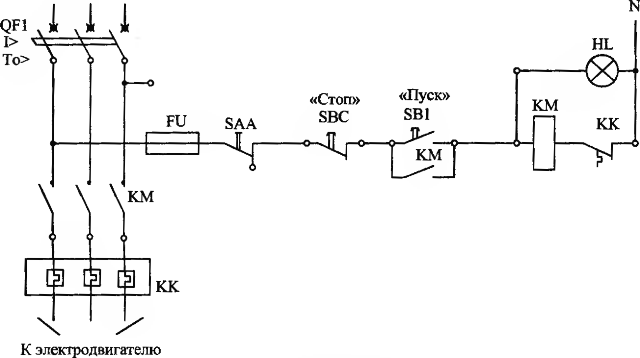
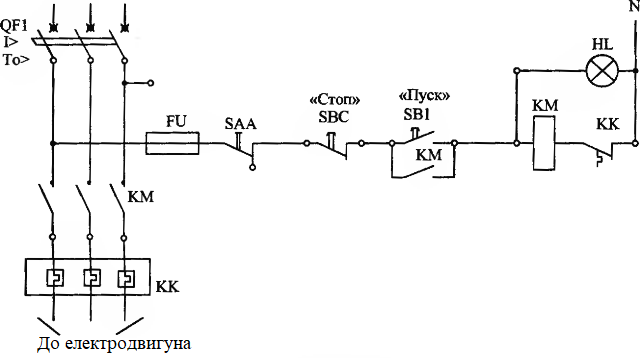
eskd

Changed region(s): [[0.0312, 0.9218, 0.3125, 1.0]]

diff --git a/prjdocsdstu/eskd/teor.md b/prjdocsdstu/eskd/teor.md
@@ -346,7 +346,7 @@
 
 Зверніть увагу: крапку можна ставити у будь-якому випадку. Якщо потрібно підкреслити, що цифри ставляться до контакту, то крапку замінюють двокрапкою. Наприклад, `КМ4:2` та `КМ4:5` відповідно позначають: другий та п'ятий контакти елемента `КМ4`. 
 
-Таблиця 4.1. Літерні коди видів елементів
+Таблиця 1. Літерні коди видів елементів
 
 | Однолітерний код | Групи видів елементів та пристроїв                           | Приклади (Дволітерний код)                                   |
 | ---------------- | ------------------------------------------------------------ | ------------------------------------------------------------ |
@@ -400,7 +400,158 @@
 
 Кола позначають у послідовності від введення джерела живлення до споживача, а ділянки, що розгалужуються, — зверху вниз у напрямку зліва направо. Зазвичай пропускають кілька номерів, залишаючи їх у резерві. Допускається до позначення кола включати позначення, що характеризують його функціональне призначення, наприклад, перед номером писати букву. На схемі позначення (марки) проставляють біля кінців або всередині ділянки кола: а) при вертикальному розташуванні кіл — зліва (а не праворуч!) від зображення кола; б) при горизонтальному розташуванні над зображенням кола. Однак у технічно обґрунтованих випадках допускається проставляти позначення під зображенням кола.
 
-У схемах постійного струму вхідні та вихідні ділянки позначають із зазначенням полярності: плюс `L+`, мінус `L-`, як або просто `+` та `-`, середній провідник позначають буквою `М`. Ділянки позитивної полярності нумерують непарними, а негативної полярності – парними числами. Якщо в процесі роботи схеми ділянка змінює полярність, то ділянки, що не мають явно вираженої полярності (провідник, що з'єднує дві послідовно з'єднані котушки, резистори тощо), позначаються парними чи непарними числами. У схемах однофазного змінного струму (фаза-нейтраль, фаза-фаза) ділянки кіл позначають аналогічно колам постійного струму з додаванням індексу фази `А`, `В`, `С` або (IV). Індекс фази чи нейтралі пишуть перед цифровою частиною. Парні (непарні) числа можуть надаватися будь-яким ділянкам кола будь-якої фази або нейтралі (нулю). У схемах трифазного змінного струму ділянки кіл позначають без поділу на парні та непарні з додаванням перед цифровою частиною індексу фази.
+При розробці принципових електричних схем в автоматизованих системах керування використовуються два способи позначення електричних кіл або маркування кіл:
+
+- Потенційний;
+- адресний чи зустрічний.
+
+**Потенційний спосіб маркування** кіл виходить із положення, що всі кола, що мають однаковий потенціал, тобто кола, що сходяться в одному вузлі електричної схеми або проходять через роз'ємні контактні з'єднання, повинні мати однакові позначення/маркування. При потенційному маркуванні ділянки кіл позначаються незалежно від позначення чи нумерації клем, затискачів, контактів тощо, до яких приєднуються кінці маркованих ділянок кіл. Послідовність позначення здійснюється від введення джерела живлення до споживача, а ділянки, що розгалужуються, — зверху вниз у напрямку зліва направо. Для позначення використовують великі літери латинського алфавіту та арабські цифри, виконані одним розміром шрифту. Не рекомендується застосовувати літери `І` та `О`. Для зручності користування схемою допускається при позначенні кіл залишати резервні номери або пропускати номери.
+
+Для силових кіл змінного струму прийняті позначення `L1, L2, L3` та послідовні числа. Наприклад, ділянки кола першої фази `L1` позначають `L11, L12, L13, ...`, другої фази `L2` - `L21, L22, L23, ...,` третьої фази `L3`-`L31, L32, L33` і т.д. Допускається, якщо це не викличе помилкового підключення, позначати 1,2 і 3 фази відповідно літерами `А`, `В`, `С`. Нейтральний провід позначають літерою `N`. Силові кола постійного струму позначають: ділянки кіл позитивної полярності – непарними числами, негативної полярності – парними числами. Вхідні та вихідні ділянки кола позначають із зазначенням полярності плюс `L+` та мінус `L-`. Дозволяється застосовувати лише знаки `+` та `-`. Середній провід позначають літерою `М`. 
+
+Дозволяється позначати кола послідовними числами. Кола управління, захисту, сигналізації, автоматики, вимірювання позначають послідовними числами в межах виробу або установки. Допускається позначення кола включати позначення, що характеризує функціональне призначення кола. І тут послідовність чисел допускається встановлювати не більше функціонального кола. Допускається в позначення кіл управління, захисту, сигналізації, автоматики, вимірювання включати позначення фаз, наприклад, `А 401`, `С 401`, а також 1-фазних (фаза-нуль) і 2-фазних (фаза-фаза) несилових колах змінного струму ділянки кіл позначати парними та непарними числами
+
+Маркування кіл в АСКТП слід проводити за функціональною ознакою (наприклад):
+
+- кола керування, регулювання - група чисел від 1 до 399;
+- кола сигналізації - 400-799;
+- кола живлення - 800-999.
+
+Позначення проставляють близько кінців чи середині ділянки електричного кола: при вертикальному розташуванні кіл — ліворуч від зображення, при горизонтальному — над зображенням кола. У технічно обґрунтованих випадках дозволяється проставляти позначення під зображенням кола.
+Адресний або зустрічний спосіб маркування враховує ту обставину, що електрична схема має позначення затискачів, виводів елементів, засобів автоматизації. Це дозволяє на кожному кінці ділянки кола вказувати марку елемента або засоби автоматизації, що приєднується до протилежного кінця цієї ділянки.
+
+Деякі підприємства-виробники щитової продукції використовують адресний/зустрічний метод маркування або табличний метод, при якому за певною формою записуються або адреса початку та кінця ділянок кола, або одночасно марка кола та адреса початку та кінця ділянок кола.
+
+## 5. Електричні кола в автоматизованих системах керування
+
+### Види електричних кіл
+
+Елементарні або окремі електричні кола за призначенням можна поділити на такі види:
+
+- Вимірювання параметра:  електричне коло передачі електричного сигналу, пропорційного величині параметра вимірюваного технологічного процесу.
+- Контролю параметра: електричне коло передачі дискретного електричного сигналу про досягнення вимірюваним параметром певного значення або зміну положення елемента, який контролює стан апарата або пристрою.
+- Сигналізації: електричне коло світлового та/або звукового сигналу, отриманого з кіл контролю параметра, кіл захисту, керування, регулювання.
+- Захисту:  електричне коло із встановленим у ньому пристроєм (апаратом) захисту, який служить для безумовного автоматичного відключення або включення даного електричного кола у разі виникнення аварійної ситуації в технологічному або електричному устаткуванні
+- Блокування: електричне коло із встановленими в ньому елементами, які запобігають або обмежують виконання операцій в одному з кіл керування, регулювання, сигналізації з метою запобігання виникненню цього кола неприпустимих станів при певних станах або положеннях елементів в іншому електричному колу.
+- Керування: електричне коло, яким передаються сигнали включення/відключення електроустаткування, електроприймача.
+- Регулювання:  форма електричного кола керування, призначена для автоматичного підтримування заданої величини параметра шляхом виявлення та усунення відхилень величини параметра або зміни параметра за заданою програмою.
+- Живлення: електричне коло, призначений для забезпечення електроенергією електрообладнання, електроприймачів та технічних засобів АСКТП . 
+
+У конкретних важливих електричних схемах деякі електричні кола може бути віднесено до різних видів кіл.
+
+### Кола вимірювання та контролю
+
+Кола вимірювання кореспондуються з одного боку з вихідними елементами/клемами первинного приладу або засобу вимірювання та з клемами різноманітних перетворень, обмежувачів напруги, гальванічної розв'язки, а також вторинних приладів, засобів обчислювальної техніки — з іншого боку. Конкретні схеми з'єднань різних засобів автоматизації та обчислювальної техніки, підключення кіл виміру до їх вхідних/вихідних елементів повністю залежать від вибраних засобів автоматизації. За колами виміру передаються такі види сигналів:
+
+- 1-10 В з можливими рівнями сигналів в межах 0-60 мВ до 0-20 В;
+- 0 (4) - 20 мА;
+- датчик температури (термометр опору) за 2-, 3-, 4-провідною схемою;
+- Термопари різних типів;
+- Лінійні мВ - сигнали в діапазоні від - 20 мВ до - 2400 мВ;
+- Опір (двопровідна схема), потенціометр (трьохпровідна схема) в діапазоні до 8 кОм;
+- Постійний струм або змінний в діапазоні 0,2-5 А;
+
+Крім перелічених сигналів можуть передаватися сигнали:
+
+- з HART-протоколом;
+
+- частотні в діапазоні від 0,1 Гц до 120 кГц;
+- З SSI-інтерфейсом.
+
+Елементарні кола виміру показані в таблиці 2.
+
+Таблиця 2. Приклад кіл вимірювання
+
+| Коло вимірювання                                            | Схема                                                        |
+| ----------------------------------------------------------- | ------------------------------------------------------------ |
+| Двопровідне коло вимірювання струму (напруги)               | ![image-20241207153556109](media/image-20241207153556109.png) |
+| Трипровідне коло вимірювання струму (напруги)               | ![image-20241207153602168](media/image-20241207153602168.png) |
+| Індуктивний датчик постійного струму                        | ![image-20241207153611899](media/image-20241207153611899.png) |
+| Індуктивний датчик змінного струму                          | ![image-20241207153622688](media/image-20241207153622688.png) |
+| Термопара                                                   | ![image-20241207153628467](media/image-20241207153628467.png) |
+| «Сухий контакт»                                             | ![image-20241207153634442](media/image-20241207153634442.png) |
+| "Сухий контакт" з контролем справності лінії (LFD)          | ![image-20241207153639779](media/image-20241207153639779.png) |
+| Термометр опору, потенціометр, резистор Двопровідне коло    | ![image-20241207153644792](media/image-20241207153644792.png) |
+| Термометр опору, потенціометр, резистор Трипровідне коло    | ![image-20241207153650003](media/image-20241207153650003.png) |
+| Термометр опору, потенціометр, резистор Чотирипровідне коло | ![image-20241207153655537](media/image-20241207153655537.png) |
+
+Як бачимо більшість кіл є двопровідними. Лише підключення термометрів опору можливе за 2-, 3-, 4-провідною схемою, а в колах вимірювання з використанням SSI-інтерфейсу задіяні три кручені пари проводів. 
+
+Коло контролю характеризується тим, що в певний момент зміни величини параметра або положення механічного предмета елемент контролю замикає електричне коло, в якому лавиноподібно наростає струм, достатній для спрацьовування приймального елемента, або розмикає електричне коло, в якому струм знижується до величини, достатньої для відключення приймального елемента. Як елемент контролю може бути застосований «сухий контакт» засобу автоматизації або командоапарата, транзистор, керований діод, оптрон, індуктивний або ємнісний датчик і т.п. 
+
+### Коло сигналізації 
+
+Коло сигналізації в деяких випадках важко відокремити від інших кіл - керування, захисту, регулювання або контролю. Водночас із кіл сигналізації складаються електричні схеми сигналізації. В системах АСКТП розрізняють схеми сигналізації за призначенням, видом сигналів, за родом електричного живлення схеми.
+
+За призначенням схеми сигналізації поділяються на схеми технологічної та командно-переговорної сигналізації. **Технологічна сигналізація** служить подання оперативному персоналу сигналів:
+
+- про стан механізмів технологічного, електротехнічного, вентиляційного, каналізаційного та іншого обладнання (насос увімкнений або вимкнений, вентилятор у роботі, напруга в ланцюзі живлення є, шибер піднято або опущено, засувка відкрита або закрита тощо);
+- про стан параметрів технологічного процесу (відхилення параметра від встановленої величини, наявність чи відсутність у конкретному місці тих чи інших предметів чи речовин у певному обсязі та концентрації тощо).
+
+Цей вид технологічної сигналізації може бути двох підвидів: попереджувальної та аварійної. **Попереджувальна технологічна сигналізація** - сигналізація про ненормальні, але ще допустимі значення контрольованих або регульованих величин, про порушення нормального режиму роботи окремих агрегатів або всієї установки в цілому. Поява попереджувальних сигналів вказує оперативному персоналу на необхідність вжиття певних заходів для усунення несправностей. **Аварійна технологічна сигналізація** — сигналізація про неприпустимі значення контрольованих величин, про аварійні стани на окремих ділянках технологічного процесу або про аварійні відхилення контрольованих об'єктів. Поява аварійних сигналів часто супроводжується дією пристроїв автоматичного захисту чи блокування. Аварійна сигналізація, потребує, зазвичай, негайного втручання оперативного персоналу, здійснюється, на відміну попереджувальної сигналізації, миготливим світлом і звуком різкого тону. Поділ сигналізації на поепереджувальну та аварійну забезпечує різну реакцію оператора на отриману інформацію в залежності від характеру сигналу, що означує ступінь порушення технологічного процесу. Характер технологічного процесу деяких об'єктах допускає короткочасне відхилення технологічних параметрів від норми з наступним його відновленням. У подібних випадках схеми сигналізації повинні забезпечувати подачу сигналів з витримкою часу, дещо більшою за допустимий час відхилення параметра від норми.
+
+По виду сигналізації розрізняють світлову, звукову та світлозвукову сигналізацію. Просто світлова або просто звукова сигналізація застосовуються рідко. Так, найпростішим електричним варіантом світлової сигналізації є коло зі світловим елементом (лампа, табло, світлодіод), який вказує на наявність електричної напруги в електричній схемі або колі. Як приклад суто звукової сигналізації можна навести включення спеціального ревуна при аварійній ситуації в приміщенні, в якому з'явилася вибухонебезпечна атмосфера.  **Світлозвукова сигналізація** поділяється на дві частини: світлову та звукову. Світлова частина схеми технологічної сигналізації може будуватися використання лише рівного світла, або рівного і миготливого світла. 
+
+### Коло керування
+
+У технологічному процесі беруть участь різноманітні машини, механізми та пристрої, що приводяться в дію електроприводами. **Електропривод** - пристрій, що складається з електродвигуна, апаратури керування ним та механічних передач, що зв'язують електродвигун з робочими органами технологічного механізму або машини. Технологічні механізми та пристрої наводяться в рух переважно асинхронними двигунами з короткозамкненим ротором. 
+
+Електрична схема керування електроприводом повинна забезпечувати режими керування електроприводом, які різняться залежно від відстані від органів керування та до об'єкта керування а також ступеня участі оперативного персоналу в процесі. Залежно від відстані до об'єкта керування розрізняють режими: 
+
+- **Місцеве керування**. Керування електроприводом за допомогою органів керування (кнопок, ключів, командоапаратів тощо), розташованих поблизу механізмів, у прямій видимості механізму; при цьому оперативний працівник має можливість безпосередньо контролювати роботу механізму візуально, з слуху, з приладів, з вібрації тощо. Місцеве керування може бути передбачене для проведення випробування, налагодження, введення в експлуатацію після монтажу або ремонту механізмів з електроприводом. Місцеве зблоковане керування застосовується для групи взаємопов'язаних механізмів або окремого механізму з групи взаємопов'язаних, зблокованих по пуску механізмів у тих випадках, коли механізми потребують оперативного місцевого контролю (візуального, слухового тощо) з боку персоналу, коли дистанційний або автоматичний контроль неможливий , а також механізмів так званого «важкого пуску» (наприклад, стрічкових транспортерів значної протяжності, стрічкових живильників, дробарок та млинів великої продуктивності тощо). У цьому випадку блокований пуск механізму може бути здійснений оперативним персоналом з місцевого поста управління після отримання дозволу від механізму зблокованого або з місцевого поста управління.
+- **Дистанційне керування**. Передбачає необхідний контроль за роботою механізму, його пуск та зупинка з боку оператора, що знаходиться на значній відстані від механізму, без прямої видимості об'єкта керування.  Дистанційне керування може бути незблокованим (ручним, індивідуальним для кожного механізму) та зблокованим (аналогічно викладеному для місцевого зблокованого керування). 
+- **Режим "Вимкнено"**.
+- **Автоматичне керування**. В автоматичному режимі керування  всі команди керування , контроль роботи механізмів здійснюється автоматично, без участі оперативного персоналу. Автоматичний режим можливий при дистанційному та місцевому розташуванні апаратури автоматичного керування, що вносить певну специфіку не тільки до схем керування , але й до структури АСУТП. 
+
+Вибір режиму керування "вимкнено", "місцеве керування", "дистанційне керування" здійснюється спеціальним перемиканням. Перемикач режимів керування не повинен виконувати функції керування "Пуск", "Стоп", "Вперед", "Назад". Перемикачі можуть встановлюватись у різних місцях: за місцем біля механізму, на щиті станції керування в розподільчому пристрої, на щиті дистанційного керування або на щиті у приміщенні оператора. 
+
+Установка місцевих апаратів керування (пуск, стоп, вперед, назад та ін.), місце встановлення перемикача режимів та режими роботи електроприводу визначаються технічними вимогами вихідних матеріалів замовника на проектування або письмовим погодженням із замовником (генеральним проектувальником), проектувальниками електротехнічної, технологічної частин та АСКТП . Різними підприємствами у світі випускається різноманітне комплектне устаткування реалізації схеми управління електроприводом. Низьковольтні комплектні пристрої управління ПКУ називають станціями управління.
+
+На схемах з рис.22-25 наведено схеми керування нереверсивним асинхронним електродвигуном у різних режимах керування; місцевому, дистанційному та автоматичному з програмованим логічним контролером. Електродвигун запитується фідером напругою 380 змінного струму. Захист за максимальним струмом і температурою здійснюється автоматичним вимикачем `QF`, за тривалим струмом навантаження - тепловим реле `КК` з включенням контакту `КК`, що розмикає коло керування контактора. Контактор керування може бути включений на міжфазну напругу 380 В (у ланцюзі кожної фази контактора встановлюються запобіжнику `FU1` і `FU2`) або на фазну напругу 220 В (у ланцюзі встановлюється фазний запобіжник `FU1`, а обмотка контактора включена на нульовий робочий провід `N`, `PEN`). 
+
+![image-20241214162118169](media/image-20241214162118169.png)
+
+Рис.22  Нереверсивний електродвигун. Місцеве керування 
+
+Замість трифазного автоматичного вимикача `QF` можна встановити послідовно рубильник (або інший роз'єднувач, вимикач) `SA` та запобіжники `FU`. При цьому для забезпечення одночасного відключення всіх трьох фаз при включенні контактора на фазну напругу передбачається спеціальний пристрій, що діє на відключення контактора при згорянні запобіжників в одній або будь-яких фазах. При включенні обмотки контактора на фазну напругу (у наведеному вище прикладі - 220 В) її нульовий вивід повинен бути надійно приєднаний до нульового робочого провідника живильної лінії або окремого ізольованого провідника, приєднаного до нульової точки мережі".
+
+При місцевому керуванні (рис.22) увімкнення двигуна здійснюється короткочасним натисканням пускової кнопки `SB1` та замиканням кола живлення обмотки контактора `КМ`. Після цього:
+
+- Замикаються контакти на включення `КМ` в колі електродвигуна;
+- замикається блок-контакт `КМ` у колі контактора, останній самоблокується та забезпечує нульовий захист або захист від довільного самозапуску (без натискання пускової кнопки `SB1`) після зникнення або різкого зниження напруги мережі живлення;
+- Вмикається сигнальна лампа `HL` «двигун включений».
+
+Відключення електродвигуна відбувається короткочасним натисканням кнопки «стоп» `SBC`, чим відключається живлення контактора.
+
+Для здійснення керування оператором із приміщення, віддаленого від електродвигуна (дистанційне керування, рис.23), і неможливості при цьому включати електродвигун місцевою кнопкою «пуск» послідовно з обмоткою контактора включається перемикач режимів `SA`.У нашому прикладі цей перемикач використовується для вибору трьох режимів:
+
+- «відключено» `О` - середнє положення; ланцюг контактора розірвано 
+- «Місцеве управління» `М` - ліве положення; керування електродвигуном здійснюється так, як викладено для схеми а.
+- «Дистанційне управління» `Д` - праве положення перемикача режиму включає в коло контактора ділянку кола, яке дозволяє дистанційно запускати і зупиняти електродвигун за допомогою кнопок `SB1.1` і `SBC.1`. Дія цих кнопок аналогічна до дії кнопок `SB1` і `SBC`. При цьому відключити електродвигун можна також натисканням місцевої кнопки «стоп» `SBC`.
+
+Однак в режимі "місцеве керування" оператор не має можливості дистанційно відключити електродвигун кнопкою "стоп" `SBC.1`.
+
+
+
+![image-20241214163257753](media/image-20241214163257753.png)
+
+Рис.23. Нереверсивний електродвигун. Дистанційне керування
+
+На рис.24 показаний дистанційний режим з блокуванням, що включає послідовно контакти `КБП` і `КБС`, які блокують можливість запуску.   
+
+![image-20241214163332766](media/image-20241214163332766.png)
+
+Рис.24. Нереверсивний електродвигун. Дистанційне керування з блокуванням
+
+В режимі автоматичного керування (рис.25, 26), перемикач режиму замість положення `Д` «Дистанційне керування» має положення `А` «Автоматичне керування». При положенні перемикача `М` здійснюється місцеве керування електродвигуном. При положенні перемикача режиму `А` операції керування виконуються:
+
+- за програмою контролера ПЛК (PLC) контактами модуля (блоку) виведення дискретної інформації - умовно названих `КП` (пуск) та `КС` (стоп);
+
+- по телемеханічних команд, що передаються мікроконтролером з контактами `КП` (пуск) та `КС` (стоп); у цьому виді керування блокування здійснюються у колах автоматичного керування (можливо також за програмою комплекту диспетчерського пункту системи телемеханіки).
+
+![image-20241214163358946](media/image-20241214163358946.png)
+
+Рис.25. Нереверсивний електродвигун. Автоматичне керування
 
 
 
